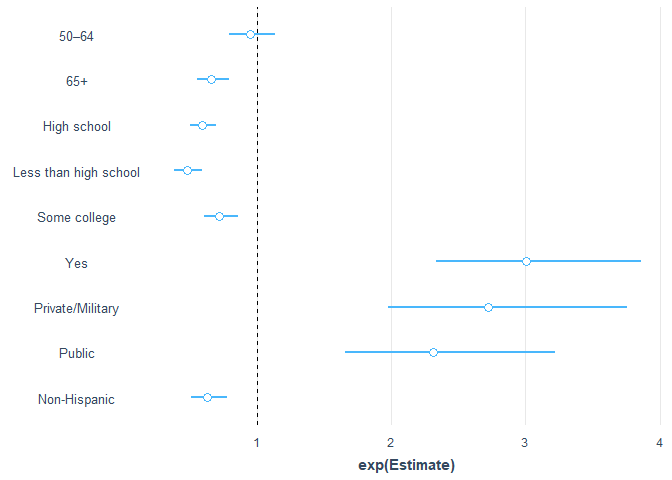
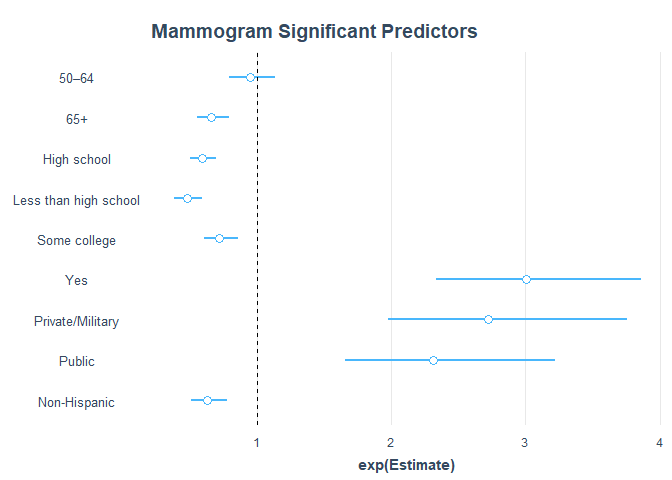
add title to the odds ratio plot

diff --git a/mammogram.md b/mammogram.md
@@ -1539,7 +1539,8 @@ coef_new = stringr::str_remove(coef_new, "^[^_]*_cat2[)]")
 names(coef) <- coef_new
 coef = coef[-1]
 
-jtools::plot_summs(mam2_fit3, coefs = coef, exp = TRUE)
+jtools::plot_summs(mam2_fit3, coefs = coef, exp = TRUE) +
+  labs(title = "Mammogram Significant Predictors")
 ```
 
 ![](mammogram_files/figure-markdown_github/unnamed-chunk-7-1.png)
